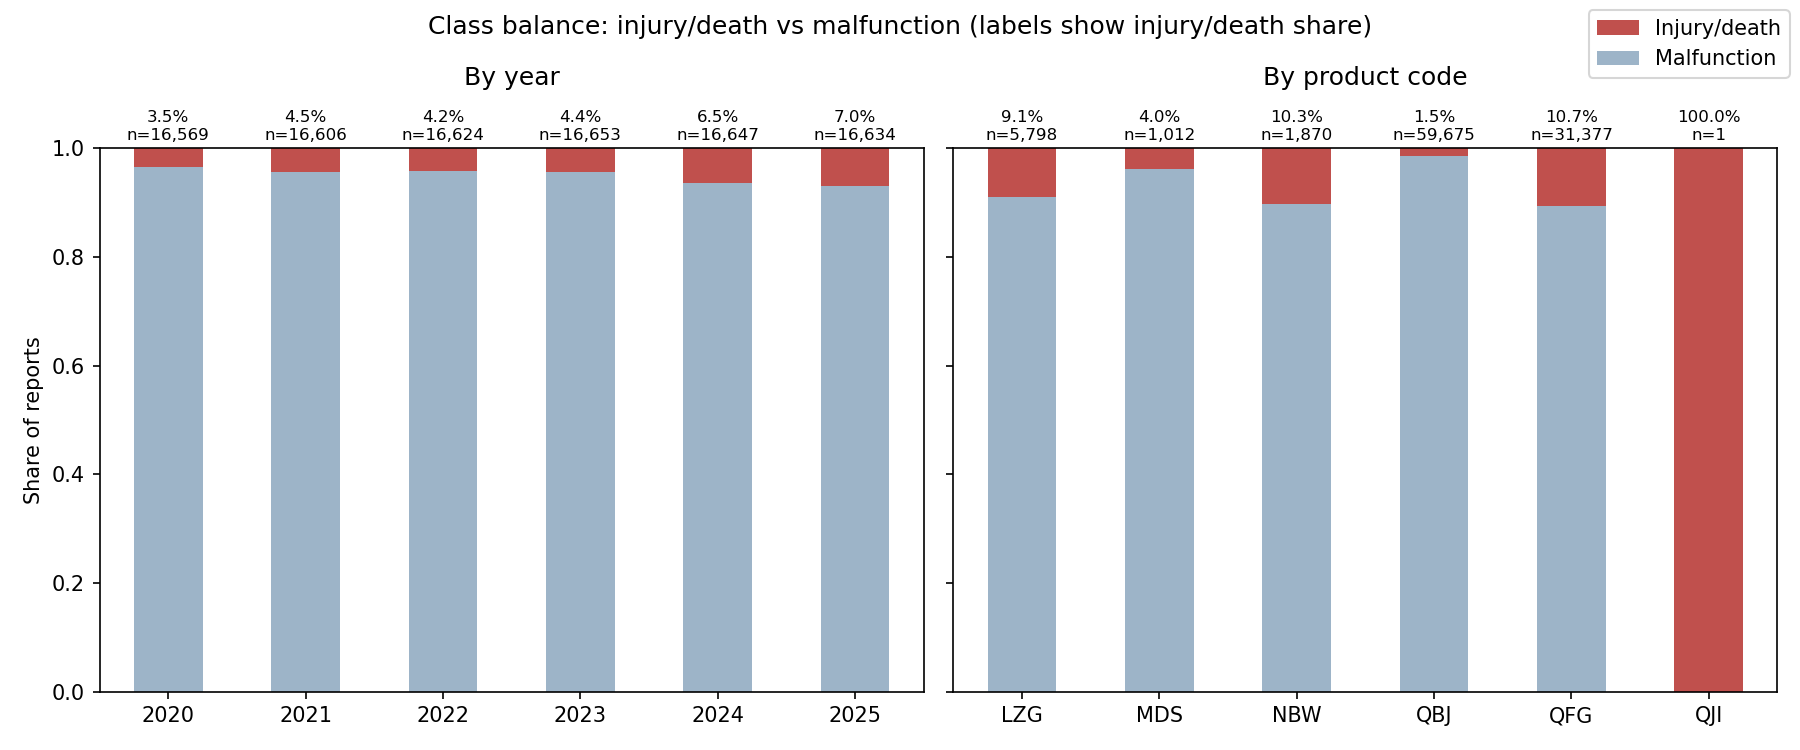
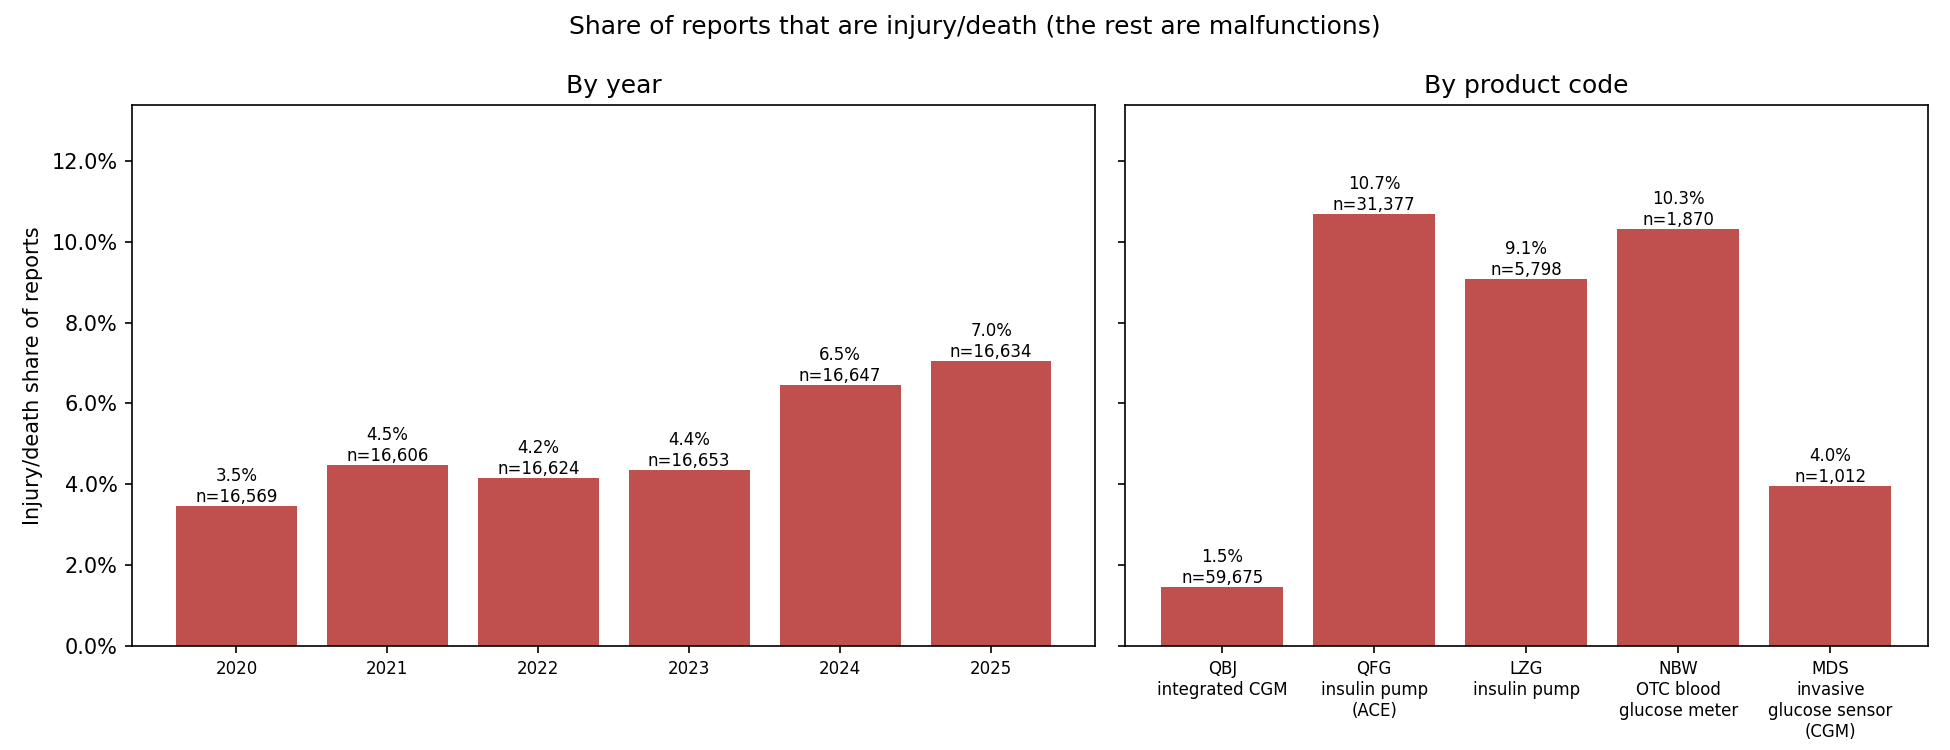
Drop tiny product codes from class balance chart, zoom y-axis

diff --git a/class_balance.py b/class_balance.py
@@ -1,51 +1,73 @@
+import textwrap
+
 import pandas as pd
 import matplotlib
 matplotlib.use("Agg")
 import matplotlib.pyplot as plt
 import config
 
-#load the cleaned data from clean_data.py
-df = pd.read_csv(config.PROCESSED_DIR / "events_clean.csv")
 names = {0: "Malfunction", 1: "Injury/death"}
 
-#count each class by year and by product code
-def class_counts(col):
+# product codes with fewer reports than this are too small to show a reliable share
+MIN_REPORTS = 100
+
+
+#count each class by a column (year or product code)
+def class_counts(df, col):
     counts = pd.crosstab(df[col], df["label"]).reindex(columns=[0, 1], fill_value=0)
     counts = counts.rename(columns=names)
     counts["total"] = counts.sum(axis=1)
     counts["injury_death_share"] = (counts["Injury/death"] / counts["total"]).round(4)
     return counts
 
-by_year = class_counts("year")
-by_code = class_counts("product_code")
-print(by_year, "\n")
-print(by_code, "\n")
 
-#chart: share of each class, with report counts on top of each bar
-fig, axes = plt.subplots(1, 2, figsize=(12, 5), sharey=True)
-for ax, counts, title in [(axes[0], by_year, "By year"), (axes[1], by_code, "By product code")]:
-    shares = counts[["Malfunction", "Injury/death"]].div(counts["total"], axis=0)
-    shares.plot(kind="bar", stacked=True, ax=ax, color=["#9db4c8", "#c0504d"], legend=False, rot=0)
-    for i, (n, s) in enumerate(zip(counts["total"], counts["injury_death_share"])):
-        ax.text(i, 1.01, f"{s:.1%}\nn={n:,}", ha="center", va="bottom", fontsize=8)
-    ax.set_title(title, pad=30)
-    ax.set_xlabel("")
-    ax.set_ylim(0, 1)
-axes[0].set_ylabel("Share of reports")
-handles, labels = axes[0].get_legend_handles_labels()
-fig.legend(handles[::-1], labels[::-1], loc="upper right")
-fig.suptitle("Class balance: injury/death vs malfunction (labels show injury/death share)")
-fig.tight_layout()
+#bar chart of the injury/death share, with the share and report count above each bar
+def plot_shares(ax, counts, title):
+    shares = counts["injury_death_share"]
+    ax.bar(range(len(shares)), shares, color="#c0504d")
+    for i, (s, n) in enumerate(zip(shares, counts["total"])):
+        ax.text(i, s, f"{s:.1%}\nn={n:,}", ha="center", va="bottom", fontsize=8)
+    ax.set_xticks(range(len(shares)))
+    ax.set_xticklabels(counts.index, fontsize=8)
+    ax.set_title(title)
 
-fig_dir = config.ROOT / "figures"
-fig_dir.mkdir(exist_ok=True)
-fig.savefig(fig_dir / "class_balance.png", dpi=150)
-print("chart saved:", fig_dir / "class_balance.png")
 
-#baseline F1 on the test years: always predicting injury/death gives
-#precision = p and recall = 1, so F1 = 2p / (1 + p)
-test = df[df["year"].isin(config.TEST_YEARS)]
-p = test["label"].mean()
-print(f"\ntest rows (2024-25): {len(test):,}")
-print(f"injury/death share p: {p:.4f}")
-print(f"baseline F1 = 2p/(1+p): {2 * p / (1 + p):.4f}")
+if __name__ == "__main__":
+    #load the cleaned data from clean_data.py
+    df = pd.read_csv(config.PROCESSED_DIR / "events_clean.csv")
+
+    by_year = class_counts(df, "year")
+    by_code = class_counts(df, "product_code")
+    print(by_year, "\n")
+    print(by_code, "\n")
+
+    # Leave tiny product codes off the chart (they're still in the printed table)
+    small = by_code[by_code["total"] < MIN_REPORTS]
+    if len(small):
+        print(f"not charted (under {MIN_REPORTS} reports): {', '.join(small.index)}\n")
+    by_code = by_code[by_code["total"] >= MIN_REPORTS].sort_values("total", ascending=False)
+    by_code.index = [c + "\n" + textwrap.fill(config.PRODUCT_CODES.get(c, ""), 14) for c in by_code.index]
+
+    fig, axes = plt.subplots(1, 2, figsize=(13, 5), sharey=True,
+                             gridspec_kw={"width_ratios": [len(by_year), len(by_code)]})
+    plot_shares(axes[0], by_year, "By year")
+    plot_shares(axes[1], by_code, "By product code")
+    top = max(by_year["injury_death_share"].max(), by_code["injury_death_share"].max())
+    axes[0].set_ylim(0, top * 1.25)  # leave room for the labels
+    axes[0].yaxis.set_major_formatter(matplotlib.ticker.PercentFormatter(1.0))
+    axes[0].set_ylabel("Injury/death share of reports")
+    fig.suptitle("Share of reports that are injury/death (the rest are malfunctions)")
+    fig.tight_layout()
+
+    fig_dir = config.ROOT / "figures"
+    fig_dir.mkdir(exist_ok=True)
+    fig.savefig(fig_dir / "class_balance.png", dpi=150)
+    print("chart saved:", fig_dir / "class_balance.png")
+
+    #Baseline F1 on the test years: always predicting injury/death gives
+    # precision = p and recall = 1, so F1 = 2p / (1 + p)
+    test = df[df["year"].isin(config.TEST_YEARS)]
+    p = test["label"].mean()
+    print(f"\ntest rows (2024-25): {len(test):,}")
+    print(f"injury/death share p: {p:.4f}")
+    print(f"baseline F1 = 2p/(1+p): {2 * p / (1 + p):.4f}")
